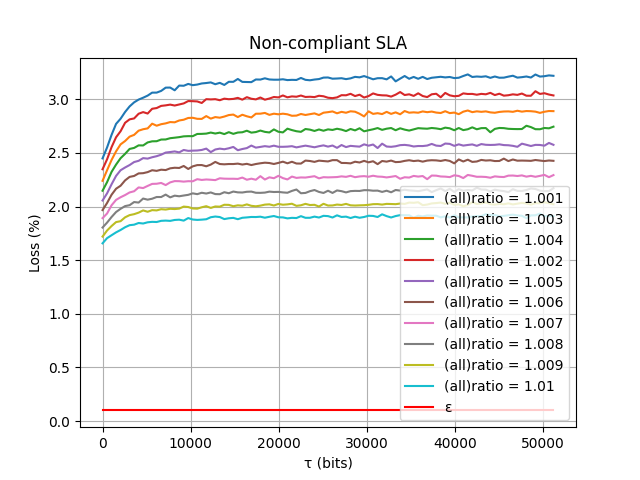
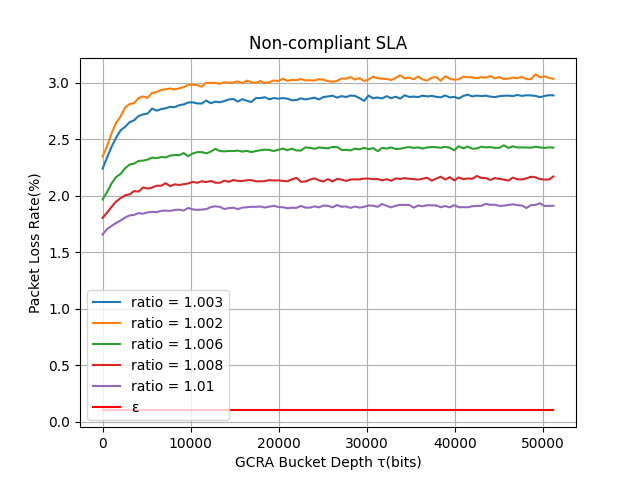
update uniform_half_noncompliant_ratio charts

diff --git a/Simulation/python/compliant_and_non_compliant_all.py b/Simulation/python/compliant_and_non_compliant_all.py
@@ -36,8 +36,8 @@ if(name == 'uniform_different_noncompliant_number'):
     plt.plot(tau_[:], [0.1 for i in tau_][:], linestyle='-', color = 'red', label='ε')
     # plt.title('Packet Loss with different τ and μ ({}) Non-compliant'.format(name), fontsize=7.5)
     plt.title('Non-compliant SLA')
-    plt.ylabel('Loss (%)')
-    plt.xlabel('τ (bits)')
+    plt.xlabel('GCRA Bucket Depth τ(bits)')
+    plt.ylabel('Packet Loss Rate(%)')
     plt.legend()
     plt.grid(True)
     plt.savefig(IMAGE_PATH.format(name,'pure', 'noncompliant'))
@@ -52,8 +52,8 @@ if(name == 'uniform_different_noncompliant_number'):
     plt.plot(tau_[:], [0.1 for i in tau_][:], linestyle='-', color = 'red', label='ε')
     # plt.title('Packet Loss with different τ and μ ({}) Compliant'.format(name), fontsize=7.5)
     plt.title('Compliant SLA')
-    plt.ylabel('Loss (%)')
-    plt.xlabel('τ (bits)')
+    plt.xlabel('GCRA Bucket Depth τ(bits)')
+    plt.ylabel('Packet Loss Rate(%)')
     plt.legend()
     plt.grid(True)
     plt.savefig(IMAGE_PATH.format(name,'pure', 'compliant'))
@@ -69,8 +69,8 @@ if(name == 'uniform_different_noncompliant_number'):
     plt.plot(tau_[:], [0.1 for i in tau_][:], linestyle='-', color = 'red', label='ε')
     # plt.title('Packet Loss with different τ and μ ({}) Non-compliant'.format(name), fontsize=7.5)
     plt.title('Non-compliant SLA')
-    plt.ylabel('Loss (%)')
-    plt.xlabel('τ (bits)')
+    plt.xlabel('GCRA Bucket Depth τ(bits)')
+    plt.ylabel('Packet Loss Rate(%)')
     plt.legend()
     plt.grid(True)
     plt.savefig(IMAGE_PATH.format(name,'all', 'noncompliant'))
@@ -85,8 +85,8 @@ if(name == 'uniform_different_noncompliant_number'):
     plt.plot(tau_[:], [0.1 for i in tau_][:], linestyle='-', color = 'red', label='ε')
     # plt.title('Packet Loss with different τ and μ ({}) Compliant'.format(name), fontsize=7.5)
     plt.title('Compliant SLA')
-    plt.ylabel('Loss (%)')
-    plt.xlabel('τ (bits)')
+    plt.xlabel('GCRA Bucket Depth τ(bits)')
+    plt.ylabel('Packet Loss Rate(%)')
     plt.legend()
     plt.grid(True)
     plt.savefig(IMAGE_PATH.format(name,'all', 'compliant'))
@@ -111,8 +111,8 @@ if(name == 'burst_half_noncompliant'):
             plt.plot(tau, noncompliant_loss_pure, linestyle='-', label='(pure)r = {}'.format(key), alpha = 1)
     plt.plot(tau_, [0.1 for i in tau_], linestyle='-', color = 'red', label='ε')
     plt.title('Packet Loss with different τ and r ({}) Non-compliant'.format(name), fontsize=12)
-    plt.ylabel('Loss (%)')
-    plt.xlabel('τ (bits)')
+    plt.xlabel('GCRA Bucket Depth τ(bits)')
+    plt.ylabel('Packet Loss Rate(%)')
     plt.legend()
     plt.grid(True)
     plt.savefig(IMAGE_PATH.format(name,'pure', 'noncompliant'))
@@ -126,8 +126,8 @@ if(name == 'burst_half_noncompliant'):
             plt.plot(tau, compliant_loss_pure, linestyle='-', label='(pure)r = {}'.format(key), alpha = 1)
     plt.plot(tau_, [0.1 for i in tau_], linestyle='-', color = 'red', label='ε')
     plt.title('Packet Loss with different τ and r ({}) Compliant'.format(name), fontsize=12)
-    plt.ylabel('Loss (%)')
-    plt.xlabel('τ (bits)')
+    plt.xlabel('GCRA Bucket Depth τ(bits)')
+    plt.ylabel('Packet Loss Rate(%)')
     plt.legend()
     plt.grid(True)
     plt.savefig(IMAGE_PATH.format(name,'pure', 'compliant'))
@@ -142,8 +142,8 @@ if(name == 'burst_half_noncompliant'):
             plt.plot(tau, noncompliant_loss_all, linestyle='-', label='(all)r = {}'.format(key), alpha = 1)
     plt.plot(tau_, [0.1 for i in tau_], linestyle='-', color = 'red', label='ε')
     plt.title('Packet Loss with different τ and r ({}) Non-compliant'.format(name), fontsize=12)
-    plt.ylabel('Loss (%)')
-    plt.xlabel('τ (bits)')
+    plt.xlabel('GCRA Bucket Depth τ(bits)')
+    plt.ylabel('Packet Loss Rate(%)')
     plt.legend()
     plt.grid(True)
     plt.savefig(IMAGE_PATH.format(name,'all', 'noncompliant'))
@@ -157,8 +157,8 @@ if(name == 'burst_half_noncompliant'):
             plt.plot(tau, compliant_loss_all, linestyle='-', label='(all)r = {}'.format(key), alpha = 1)
     plt.plot(tau_, [0.1 for i in tau_], linestyle='-', color = 'red', label='ε')
     plt.title('Packet Loss with different τ and r ({}) Compliant'.format(name), fontsize=12)
-    plt.ylabel('Loss (%)')
-    plt.xlabel('τ (bits)')
+    plt.xlabel('GCRA Bucket Depth τ(bits)')
+    plt.ylabel('Packet Loss Rate(%)')
     plt.legend()
     plt.grid(True)
     plt.savefig(IMAGE_PATH.format(name,'all', 'compliant'))
@@ -184,8 +184,8 @@ if(name == 'burst_noncompliant_different_r'):
             plt.plot(tau, noncompliant_loss_pure, linestyle='-', label='(pure)r(c) = {}, r(n) = {}'.format(key[0], key[1]), alpha = 1)
     plt.plot(tau_, [0.1 for i in tau_], linestyle='-', color = 'red', label='ε')
     plt.title('Packet Loss with different τ and r ({}) Non-compliant'.format(name), fontsize=10)
-    plt.ylabel('Loss (%)')
-    plt.xlabel('τ (bits)')
+    plt.xlabel('GCRA Bucket Depth τ(bits)')
+    plt.ylabel('Packet Loss Rate(%)')
     plt.legend()
     plt.grid(True)
     plt.savefig(IMAGE_PATH.format(name,'pure', 'noncompliant'))
@@ -198,8 +198,8 @@ if(name == 'burst_noncompliant_different_r'):
             plt.plot(tau, compliant_loss_pure, linestyle='-', label='(pure)r(c) = {}, r(n) = {}'.format(key[0], key[1]), alpha = 1)
     plt.plot(tau_, [0.1 for i in tau_], linestyle='-', color = 'red', label='ε')
     plt.title('Packet Loss with different τ and r ({}) Compliant'.format(name), fontsize=10)
-    plt.ylabel('Loss (%)')
-    plt.xlabel('τ (bits)')
+    plt.xlabel('GCRA Bucket Depth τ(bits)')
+    plt.ylabel('Packet Loss Rate(%)')
     plt.legend()
     plt.grid(True)
     plt.savefig(IMAGE_PATH.format(name,'pure', 'compliant'))
@@ -213,8 +213,8 @@ if(name == 'burst_noncompliant_different_r'):
             plt.plot(tau, noncompliant_loss_all, linestyle='-', label='(all)r(c) = {}, r(n) = {}'.format(key[0], key[1]), alpha = 1)
     plt.plot(tau_, [0.1 for i in tau_], linestyle='-', color = 'red', label='ε')
     plt.title('Packet Loss with different τ and r ({}) Non-compliant'.format(name), fontsize=10)
-    plt.ylabel('Loss (%)')
-    plt.xlabel('τ (bits)')
+    plt.xlabel('GCRA Bucket Depth τ(bits)')
+    plt.ylabel('Packet Loss Rate(%)')
     plt.legend()
     plt.grid(True)
     plt.savefig(IMAGE_PATH.format(name,'all', 'noncompliant'))
@@ -227,8 +227,8 @@ if(name == 'burst_noncompliant_different_r'):
             plt.plot(tau, compliant_loss_all, linestyle='-', label='(all)r(c) = {}, r(n) = {}'.format(key[0], key[1]), alpha = 1)
     plt.plot(tau_, [0.1 for i in tau_], linestyle='-', color = 'red', label='ε')
     plt.title('Packet Loss with different τ and r ({}) Compliant'.format(name), fontsize=10)
-    plt.ylabel('Loss (%)')
-    plt.xlabel('τ (bits)')
+    plt.xlabel('GCRA Bucket Depth τ(bits)')
+    plt.ylabel('Packet Loss Rate(%)')
     plt.legend()
     plt.grid(True)
     plt.savefig(IMAGE_PATH.format(name,'all', 'compliant'))
@@ -255,8 +255,8 @@ if(name == 'burst_half_noncompliant_different_FIFO'):
             plt.plot(tau, noncompliant_loss_pure, linestyle='-', label='(pure)r = {}, buffer = {}'.format(key[0], key[1]), alpha = 1)
     plt.plot(tau_, [0.1 for i in tau_], linestyle='-', color = 'red', label='ε')
     plt.title('Packet Loss with different τ and r ({}) Non-compliant'.format(name), fontsize=10)
-    plt.ylabel('Loss (%)')
-    plt.xlabel('τ (bits)')
+    plt.xlabel('GCRA Bucket Depth τ(bits)')
+    plt.ylabel('Packet Loss Rate(%)')
     plt.legend()
     plt.grid(True)
     plt.savefig(IMAGE_PATH.format(name,'pure', 'noncompliant'))
@@ -269,8 +269,8 @@ if(name == 'burst_half_noncompliant_different_FIFO'):
             plt.plot(tau, compliant_loss_pure, linestyle='-', label='(pure)r = {}, buffer = {}'.format(key[0], key[1]), alpha = 1)
     plt.plot(tau_, [0.1 for i in tau_], linestyle='-', color = 'red', label='ε')
     plt.title('Packet Loss with different τ and r ({}) Compliant'.format(name), fontsize=10)
-    plt.ylabel('Loss (%)')
-    plt.xlabel('τ (bits)')
+    plt.xlabel('GCRA Bucket Depth τ(bits)')
+    plt.ylabel('Packet Loss Rate(%)')
     plt.legend()
     plt.grid(True)
     plt.savefig(IMAGE_PATH.format(name,'pure', 'compliant'))
@@ -284,8 +284,8 @@ if(name == 'burst_half_noncompliant_different_FIFO'):
             plt.plot(tau, noncompliant_loss_all, linestyle='-', label='(all)r = {}, buffer = {}'.format(key[0], key[1]), alpha = 1)
     plt.plot(tau_, [0.1 for i in tau_], linestyle='-', color = 'red', label='ε')
     plt.title('Packet Loss with different τ and r ({}) Non-compliant'.format(name), fontsize=10)
-    plt.ylabel('Loss (%)')
-    plt.xlabel('τ (bits)')
+    plt.xlabel('GCRA Bucket Depth τ(bits)')
+    plt.ylabel('Packet Loss Rate(%)')
     plt.legend()
     plt.grid(True)
     plt.savefig(IMAGE_PATH.format(name,'all', 'noncompliant'))
@@ -298,8 +298,8 @@ if(name == 'burst_half_noncompliant_different_FIFO'):
             plt.plot(tau, compliant_loss_all, linestyle='-', all='(pure)r = {}, buffer = {}'.format(key[0], key[1]), alpha = 1)
     plt.plot(tau_, [0.1 for i in tau_], linestyle='-', color = 'red', label='ε')
     plt.title('Packet Loss with different τ and r ({}) Compliant'.format(name), fontsize=10)
-    plt.ylabel('Loss (%)')
-    plt.xlabel('τ (bits)')
+    plt.xlabel('GCRA Bucket Depth τ(bits)')
+    plt.ylabel('Packet Loss Rate(%)')
     plt.legend()
     plt.grid(True)
     plt.savefig(IMAGE_PATH.format(name,'all', 'compliant'))
@@ -581,12 +581,14 @@ if(name == "uniform_half_noncompliant_ratio"):
             plt.plot(tau, noncompliant_loss_pure, linestyle='-', label='(pure)ratio = {}'.format(key), alpha = 1)
     plt.plot(tau_, [0.1 for i in tau_], linestyle='-', color = 'red', label='ε')
     # plt.title('Packet Loss with different τ and ratio ({}) Non-compliant'.format(name), fontsize=12)
-    plt.ylabel('Loss (%)')
-    plt.xlabel('τ (bits)')
+    plt.xlabel('GCRA Bucket Depth τ(bits)')
+    plt.ylabel('Packet Loss Rate(%)')
     plt.legend()
     plt.grid(True)
     plt.savefig(IMAGE_PATH.format(name,'pure', 'noncompliant'))
     plt.cla()
+
+    # keys = [keys[2*i+1] for i in range(int(len(keys)/2))]
 
     for key in keys:
         compliant_loss_pure = dataframe[dataframe['ratio'] == key][['compliant_loss_pure']]
@@ -595,8 +597,8 @@ if(name == "uniform_half_noncompliant_ratio"):
             plt.plot(tau, compliant_loss_pure, linestyle='-', label='(pure)ratio = {}'.format(key), alpha = 1)
     plt.plot(tau_, [0.1 for i in tau_], linestyle='-', color = 'red', label='ε')
     # plt.title('Packet Loss with different τ and ratio ({}) Compliant'.format(name), fontsize=12)
-    plt.ylabel('Loss (%)')
-    plt.xlabel('τ (bits)')
+    plt.xlabel('GCRA Bucket Depth τ(bits)')
+    plt.ylabel('Packet Loss Rate(%)')
     plt.legend()
     plt.grid(True)
     plt.savefig(IMAGE_PATH.format(name,'pure', 'compliant'))
@@ -607,12 +609,12 @@ if(name == "uniform_half_noncompliant_ratio"):
         noncompliant_loss_all = dataframe[dataframe['ratio'] == key][['noncompliant_loss_all']]
         if(len(noncompliant_loss_all)!=0):
             tau = dataframe[dataframe['ratio'] == key]['tau'].tolist()
-            plt.plot(tau, noncompliant_loss_all, linestyle='-', label='(all)ratio = {}'.format(key), alpha = 1)
+            plt.plot(tau, noncompliant_loss_all, linestyle='-', label='ratio = {}'.format(key), alpha = 1)
     plt.plot(tau_, [0.1 for i in tau_], linestyle='-', color = 'red', label='ε')
     # plt.title('Packet Loss with different τ and ratio ({}) Non-compliant'.format(name), fontsize=12)
     plt.title('Non-compliant SLA')
-    plt.ylabel('Loss (%)')
-    plt.xlabel('τ (bits)')
+    plt.xlabel('GCRA Bucket Depth τ(bits)')
+    plt.ylabel('Packet Loss Rate(%)')
     plt.legend()
     plt.grid(True)
     plt.savefig(IMAGE_PATH.format(name,'all', 'noncompliant'))
@@ -622,12 +624,12 @@ if(name == "uniform_half_noncompliant_ratio"):
         compliant_loss_all = dataframe[dataframe['ratio'] == key][['compliant_loss_all']]
         if(len(compliant_loss_all)!=0):
             tau = dataframe[dataframe['ratio'] == key]['tau'].tolist()
-            plt.plot(tau, compliant_loss_all, linestyle='-', label='(all)ratio = {}'.format(key), alpha = 1)
+            plt.plot(tau, compliant_loss_all, linestyle='-', label='ratio = {}'.format(key), alpha = 1)
     plt.plot(tau_, [0.1 for i in tau_], linestyle='-', color = 'red', label='ε')
     # plt.title('Packet Loss with different τ and ratio ({}) Compliant'.format(name), fontsize=12)
     plt.title('Compliant SLA')
-    plt.ylabel('Loss (%)')
-    plt.xlabel('τ (bits)')
+    plt.xlabel('GCRA Bucket Depth τ(bits)')
+    plt.ylabel('Packet Loss Rate(%)')
     plt.legend()
     plt.grid(True)
     plt.savefig(IMAGE_PATH.format(name,'all', 'compliant'))
